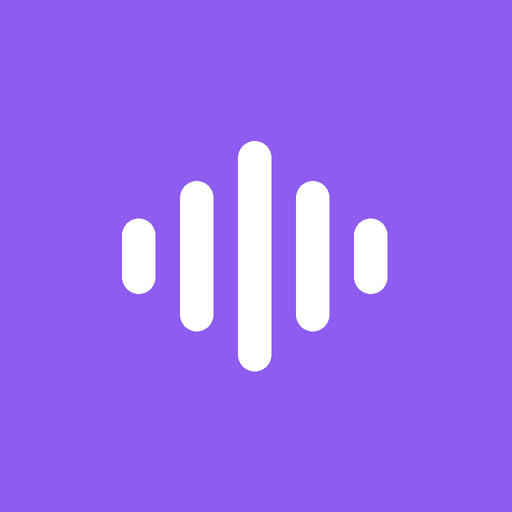
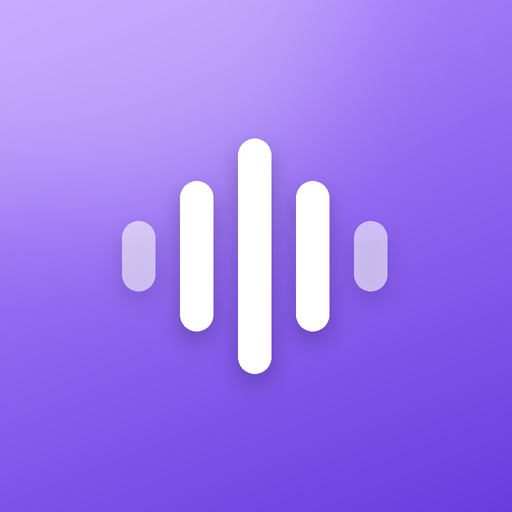
Add files via upload
更新ボタンとアイコン変更

diff --git a/index.html b/index.html
@@ -21,7 +21,10 @@
   }
   body { font-family: -apple-system, BlinkMacSystemFont, "Hiragino Sans", sans-serif; background: var(--bg); color: var(--text); min-height: 100vh; }
   .wrap { max-width: 560px; margin: 0 auto; padding: calc(env(safe-area-inset-top, 0px) + 32px) 16px calc(env(safe-area-inset-bottom, 0px) + 32px); }
-  h1 { font-size: 32px; font-weight: 800; margin: 0 4px 20px; letter-spacing: .5px; }
+  .bar { display: grid; grid-template-columns: 1fr auto 1fr; align-items: center; margin: 0 0 12px; }
+  h1 { font-size: 20px; font-weight: 700; justify-self: center; }
+  .reload-btn { justify-self: start; display: grid; place-items: center; width: 40px; height: 40px; border: none; border-radius: 50%; background: var(--card); color: var(--muted); cursor: pointer; transition: transform .45s cubic-bezier(.2,.8,.2,1), color .2s; }
+  .reload-btn:active { transform: rotate(-180deg); color: var(--text); }
   .group-label { font-size: 13px; color: var(--muted); margin: 24px 16px 6px; }
   .group { background: var(--card); border-radius: 14px; overflow: hidden; }
   .row { display: flex; align-items: center; gap: 14px; padding: 12px 16px; color: inherit; text-decoration: none; position: relative; }
@@ -36,7 +39,13 @@
 </head>
 <body>
 <div class="wrap">
-  <h1>アプリ</h1>
+  <div class="bar">
+    <button id="reloadBtn" class="reload-btn" title="最新に更新" aria-label="最新に更新">
+      <svg width="19" height="19" viewBox="0 0 24 24" fill="none" stroke="currentColor" stroke-width="2.2" stroke-linecap="round" stroke-linejoin="round"><path d="M21 12a9 9 0 1 1-2.64-6.36"/><path d="M21 3v6h-6"/></svg>
+    </button>
+    <h1>アプリ</h1>
+    <span></span>
+  </div>
   <div id="lists"></div>
 </div>
 
@@ -55,7 +64,9 @@ const APPS = [
   { group: "ほかのアプリ", name: "匿名化ツール", desc: "文章の個人情報を伏せ字にする",     url: BASE + "local-anonymizer-app/", icon: "icons/anonymizer.png" },
 ];
 
-const CHEV = '<svg class="chev" width="9" height="15" viewBox="0 0 9 15" fill="none" stroke="currentColor" stroke-width="2" stroke-linecap="round" stroke-linejoin="round"><path d="M1.5 1.5l6 6-6 6"/></svg>';
+document.getElementById("reloadBtn").onclick = () => location.reload();
+
+const CHEV ='<svg class="chev" width="9" height="15" viewBox="0 0 9 15" fill="none" stroke="currentColor" stroke-width="2" stroke-linecap="round" stroke-linejoin="round"><path d="M1.5 1.5l6 6-6 6"/></svg>';
 const root = document.getElementById("lists");
 const groups = [];
 APPS.forEach(a => { if (!groups.includes(a.group)) groups.push(a.group); });
